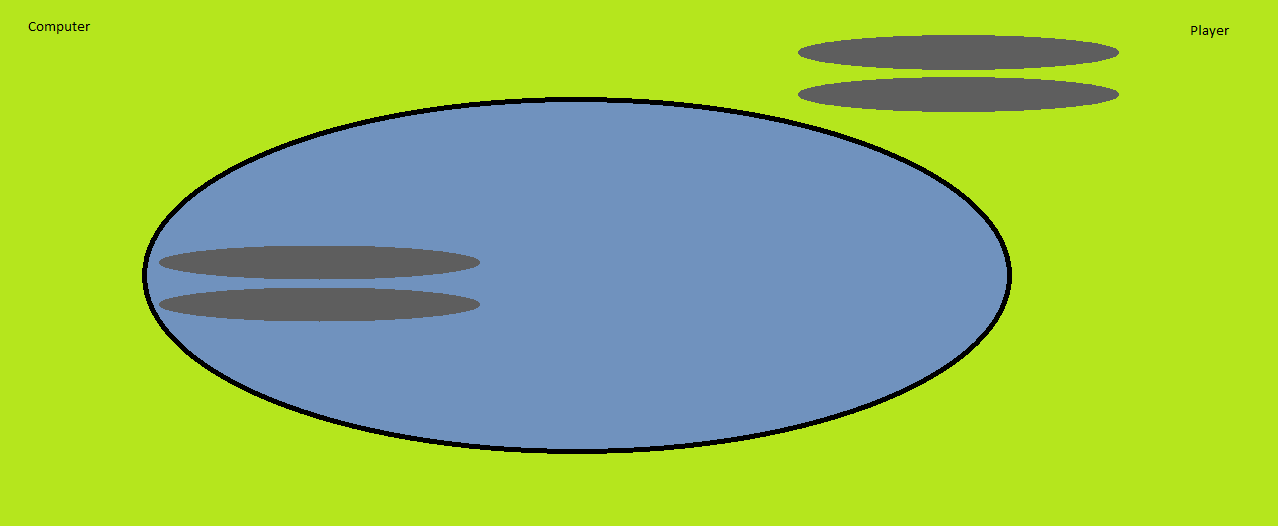
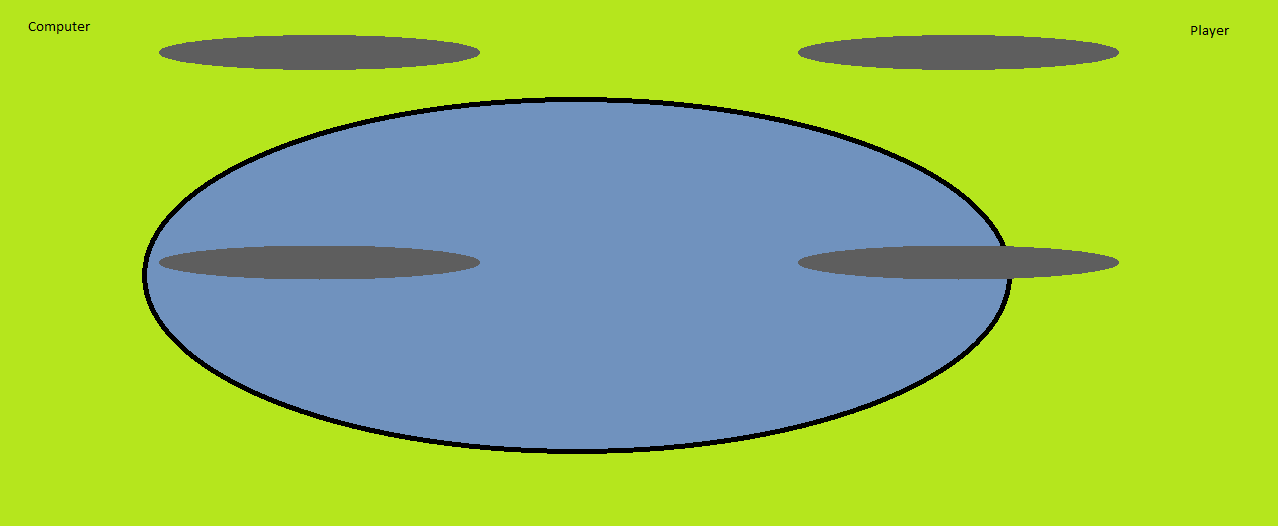
reduce repetition

diff --git a/v1.0/functions.py b/v1.0/functions.py
@@ -1,182 +1,56 @@
-# useful functions for the program
-
-import random
 import pandas as pd
+import random
+import sys
+sys.path.insert(0, "..")
+from universal_functions import *
 
-# variables
 strategyFile = "strategy.csv"
 
-# doesn't care where the hands are
-# (ie 1343 and 3134 and 3143 and 1334 are considered)
-# all the same
-def validMove(lastState, nextState, mod=5):
-    if not baseValidMove(lastState, nextState, mod):
-        return False
-    hit = False
-    switch = False
-
-    # check for a hit, using the modulus
-    # you didnt change your hands, so I hope you changed the other persons...
-    count = 0
-    for i in range(0, 2):
-        for j in range(2, 4):
-            if (lastState[i] + lastState[j]) % mod == nextState[j]:
-                if lastState[i] != 0 and lastState[j] != 0: # 0 hit is not allowed
-                    count += 1
-    if lastState[0] == lastState[1]:  # cause we double count when there is ambigous hand hit data...
-        count -= 1
-    if count == 1:
-        hit = True
-        # you can not hit and mess with hands, even if it is invalid hand messing
-        if lastState[0] != nextState[0] or lastState[1] != nextState[1]:
-            # flip counts too
-            if lastState[0] != nextState[1] or lastState[1] != nextState[0]:
-                return False
-
-    # move arround hands
-    # you did not change your hands
-    if lastState[0] != nextState[0] and lastState[1] != nextState[1]:
-        # the sum must be the same though...
-        if lastState[0] + lastState[1] == nextState[0] + nextState[1]:
-            # you didn't just switch the hand locations...
-            # that is not a real move...
-            if lastState[0] != nextState[1]:
-                switch = True
-                # you can not switch and mess with hands, even if it is invalid hand messing
-                if lastState[2] != nextState[2] or lastState[3] != nextState[3]:
-                    return False
-
-
-    if hit and not switch:
-        return True
-    elif not hit and switch:
-        return True
-    return False
-
-
-# the most obvious things which must be true
-def baseValidMove(lastState, nextState, mod=5):
-    # wrong size!
-    if len(nextState) != 4:
-        return False
-
-    # no negative hands! (by convention)
-    for i in range(0, 4):
-        if nextState[i] < 0 or nextState[i] >= mod:
-            return False
-
-    # nothing changed, not valid move
-    if lastState == nextState:
-        return False
-
-    # you can only hit one hand...
-    if nextState[3] != lastState[3] and nextState[2] != lastState[2]:
-        return False
-
-    return True # submit for more evaluation
-
-# all reorderings of a hand
-def permHands(state):
-    out = []
-    perms = ["0123", "0132", "1023", "1032"]
-    for i in perms:
-        cur = []
-        c = parseNoSpaceString(i)
-        for el in c:
-            cur.append(state[el])
-        out.append(cur)
-    return out
-
-# checks if 2 states are identical
-def sameState(state1, state2):
-    return state2 in permHands(state1)
-
-# turns a string of numbers with no spaces in between them to a list of integers
-def parseNoSpaceString(s):
-    s = list(s)
-    return [int(i) for i in s]
-
-
-# parse a string of space seperated values to an array
-def parseState(state):
-    try:
-        state = state.strip().split(" ")
-        state = [int(s) for s in state]
-    except:
-        state = [-1, -1, -1, -1]
-    return state
+# gameplay
 
 # get a state from the user
 # note must invert state when reading in and writing out for the computer
 # but this is done elsewhere
 def inputState(state, mod=5):
     nextMove = [-1, -1, -1, -1]
-    while not validMove(state, nextMove):
-        nextMove = parseState(input("input move values, space seperated\t"))
-    addLookupEntry(state, nextMove)
+    while not validMove(state, nextMove, mod=mod):
+        nextMove = conform(parseState(input("input move values, space seperated\t")))
+    addLookupEntry(state, nextMove, mod=mod)
     return nextMove
 
-# generates a random state, not neccecarily valid
-def randomState(mod=5):
-    return [random.randint(0, 4) for i in range(0, 4)]
+# checks if a move is allowed
+def validMove(state, nextState, mod=5):
+    return nextState in possibleNextMoves(state, mod=mod)
+
+# parse a string of space seperated values to an array
+def parseState(state):
+    try:
+        state = state.strip().split(" ")
+        state = [int(s) for s in state]
+        if len(state) != 4:
+            state = [-1, -1, -1, -1]
+    except:
+        state = [-1, -1, -1, -1]
+    return state
+
 
 # computer move
-def advanceState(state):
-    lookUp = lookUpNextMove(state)
+def advanceState(state, mod=5):
+    lookUp = lookUpNextMove(state, mod=mod)
     if lookUp != []:
         return parseState(random.choice(lookUp))
     else:
-        r = randomState()
-        while gameOver(r) == 1 or not validMove(state, r):
-            r = randomState()
-        return r
+        return randomState(state, mod=mod)
 
 
-# looks up a move in the table, returns all recorder next moves
-def lookUpNextMove(lastMove):
-    stratCsv = pd.read_csv(strategyFile)
-    nexts = []
-    for i in range(0, len(stratCsv["Previous"])):
-        # real eqaulity check
-        if sameState(stratCsv["Previous"][i], listToString(lastMove)):
-            nexts.append(stratCsv["Next"][i])
-    return nexts
-
-# flips the reference frame
-def invertState(state):
-    return [state[2], state[3], state[0], state[1]]
-
-# is the game over?
-def gameOver(state):
-    p1 = ( state[0] == 0 and state[1] == 0 )
-    p2 = ( state[2] == 0 and state[3] == 0 )
-    if p1:
-        return 1
-    elif p2:
-        return 2
-    # elif tie:
-    #     return 0
-    else:
-        return -1
-    # note the slight bias towards player 1
-    # is irrelevant except in mod 1 where p1 will
-    # lose by this algorithm, when it should really be a tie
-
-    # tie criteria (0) (ie detect infinite loop)
-    # may be nessecary.... later
-
-
-# turn a list into a string
-def listToString(l):
-    le = [str(e) for e in l]
-    return " ".join(le)
+# csv i/o
 
 # here is how to add to the table
-def addLookupEntry(state1, state2):
+def addLookupEntry(state1, state2, mod=5):
     s1 = listToString(state1)
     s2 = listToString(state2)
 
-    stratCsv = pd.read_csv(strategyFile)
+    stratCsv = pd.read_csv(modFileName(strategyFile, mod=mod))
     nextStrat = {
         "Previous": s1,
         "Next": s2
@@ -184,4 +58,14 @@ def addLookupEntry(state1, state2):
 
     stratCsv = stratCsv.append(nextStrat, ignore_index=True)
     stratCsv = stratCsv[["Previous", "Next"]]
-    stratCsv.to_csv(strategyFile, index=False)
+    stratCsv.to_csv(modFileName(strategyFile), index=False)
+
+# looks up a move in the table, returns all recorded next moves
+def lookUpNextMove(lastMove, mod=5):
+    stratCsv = pd.read_csv(modFileName(strategyFile, mod=mod))
+    nexts = []
+    for i in range(0, len(stratCsv["Previous"])):
+        # real eqaulity check
+        if stratCsv["Previous"][i] == listToString(lastMove):
+            nexts.append(stratCsv["Next"][i])
+    return nexts

diff --git a/v0.0/chopsticks.py b/v0.0/chopsticks.py
@@ -1,7 +1,9 @@
-from functions import *
 import time
 import sys
 import os
+sys.path.insert(0, "..")
+from base_functions import *
+from universal_functions import *
 
 strategyFile = "strategy.csv"
 
@@ -34,19 +36,19 @@ while gameOver(state) == -1:
         if player == "computer":
             print("My turn")
             time.sleep(0.5)
-            state = conform(advanceState(state, mod=mod))
+            state = conform(advanceState(state, strategyFile, mod=mod))
             time.sleep(1)
         else:
             print("Player turn")
             print(state)
-            state = conform(inputState(state, mod=mod))
+            state = conform(inputState(state, strategyFile, mod=mod))
     else:
         print("Player turn")
         print(invertState(state))
         # note the state assumes the current player is listed first
         state = invertState(state)
         # make the choice
-        state = conform(inputState(state, mod=mod))
+        state = conform(inputState(state, strategyFile, mod=mod))
         # we must flip twice
         state = invertState(state)
     turn += 1

diff --git a/base_functions.py b/base_functions.py
@@ -1,3 +1,5 @@
+# functions used by all v0 and v1s
+
 import pandas as pd
 import random
 import sys
@@ -32,7 +34,6 @@ def parseState(state):
         state = [-1, -1, -1, -1]
     return state
 
-
 # computer move
 def advanceState(state, strategyFile, mod=5):
     lookUp = lookUpNextMove(state, strategyFile, mod=mod)
@@ -40,7 +41,6 @@ def advanceState(state, strategyFile, mod=5):
         return parseState(random.choice(lookUp))
     else:
         return randomState(state, mod=mod)
-
 
 # csv i/o
 

diff --git a/universal_functions.py b/universal_functions.py
@@ -1,4 +1,6 @@
 # functions that are used by every version and do not change
+# these may have to be overriden / not used in very different versions of the game
+# ie preservation
 import random
 
 # gameplay
